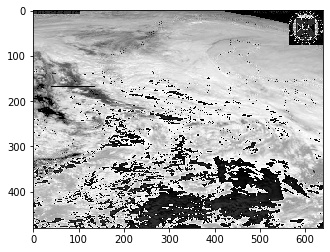
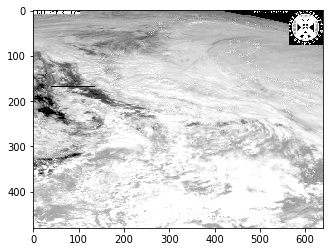
codigo ctualizado

diff --git a/ejercicio3.py b/ejercicio3.py
@@ -20,17 +20,21 @@ imagen_resultado = cv2.cvtColor(imagen_resultado, cv2.COLOR_BGR2RGB)
 
 # Inicializamos los valores 5 10 20  21  
 
-b = 2
+b = 3
 c = 50
 
 alto, ancho = imagen_gray.shape
 
-def point_operator(pixel_RGB):
-    return (c * (np.power(b,imagen_gray[x][y]) - 1))
 
 for x in range(alto):
     for y in range(ancho):
-        imagen_resultado[x][y] = point_operator(imagen_gray[x][y])            
+        resultado = c * (np.power(b,imagen_gray[x][y]) - 1)
+        if resultado > 255:
+            imagen_resultado[x][y] = 255
+        else:
+            imagen_resultado[x][y] = c * (np.power(b,imagen_gray[x][y]) - 1)
+        
+                 
 
 #------------------------------------------------------------------------
 #Implementacion de algoritmo de Raise to the power operator 
@@ -39,18 +43,22 @@ for x in range(alto):
 
 # r = 0.8
 r = 1
-c = 1.1
-# c=0.1
-#valores de c 1 1.2 0.5 0.8 cuando r = 1
+# c = 4
+c = 3
+# #valores de c 1 1.2 0.5 0.8 3 cuando r = 1
 alto, ancho = imagen_gray.shape
 
-def point_operator(pixel_RGB):
-    return (c * (np.power(imagen_gray[x][y] , r)))
 
 for x in range(alto):
     for y in range(ancho):
-        imagen_resultado[x][y] = point_operator(imagen_gray[x][y])            
+        resultado = (c * (np.power(imagen_gray[x][y] , r)))
+        if resultado > 255:
+            imagen_resultado[x][y] = 255
+        elif resultado < 0:
+            imagen_resultado[x][y] = 0
+        else:
+            imagen_resultado[x][y] = (c * (np.power(imagen_gray[x][y] , r)))   
 #-------------------------------------------------------------------------
 
 plt.imshow(imagen_resultado)
-plt.savefig('Imagen_resultado.jpg', bbox_inches='tight')
+plt.savefig('Imagen_resultado_3.jpg', bbox_inches='tight')
